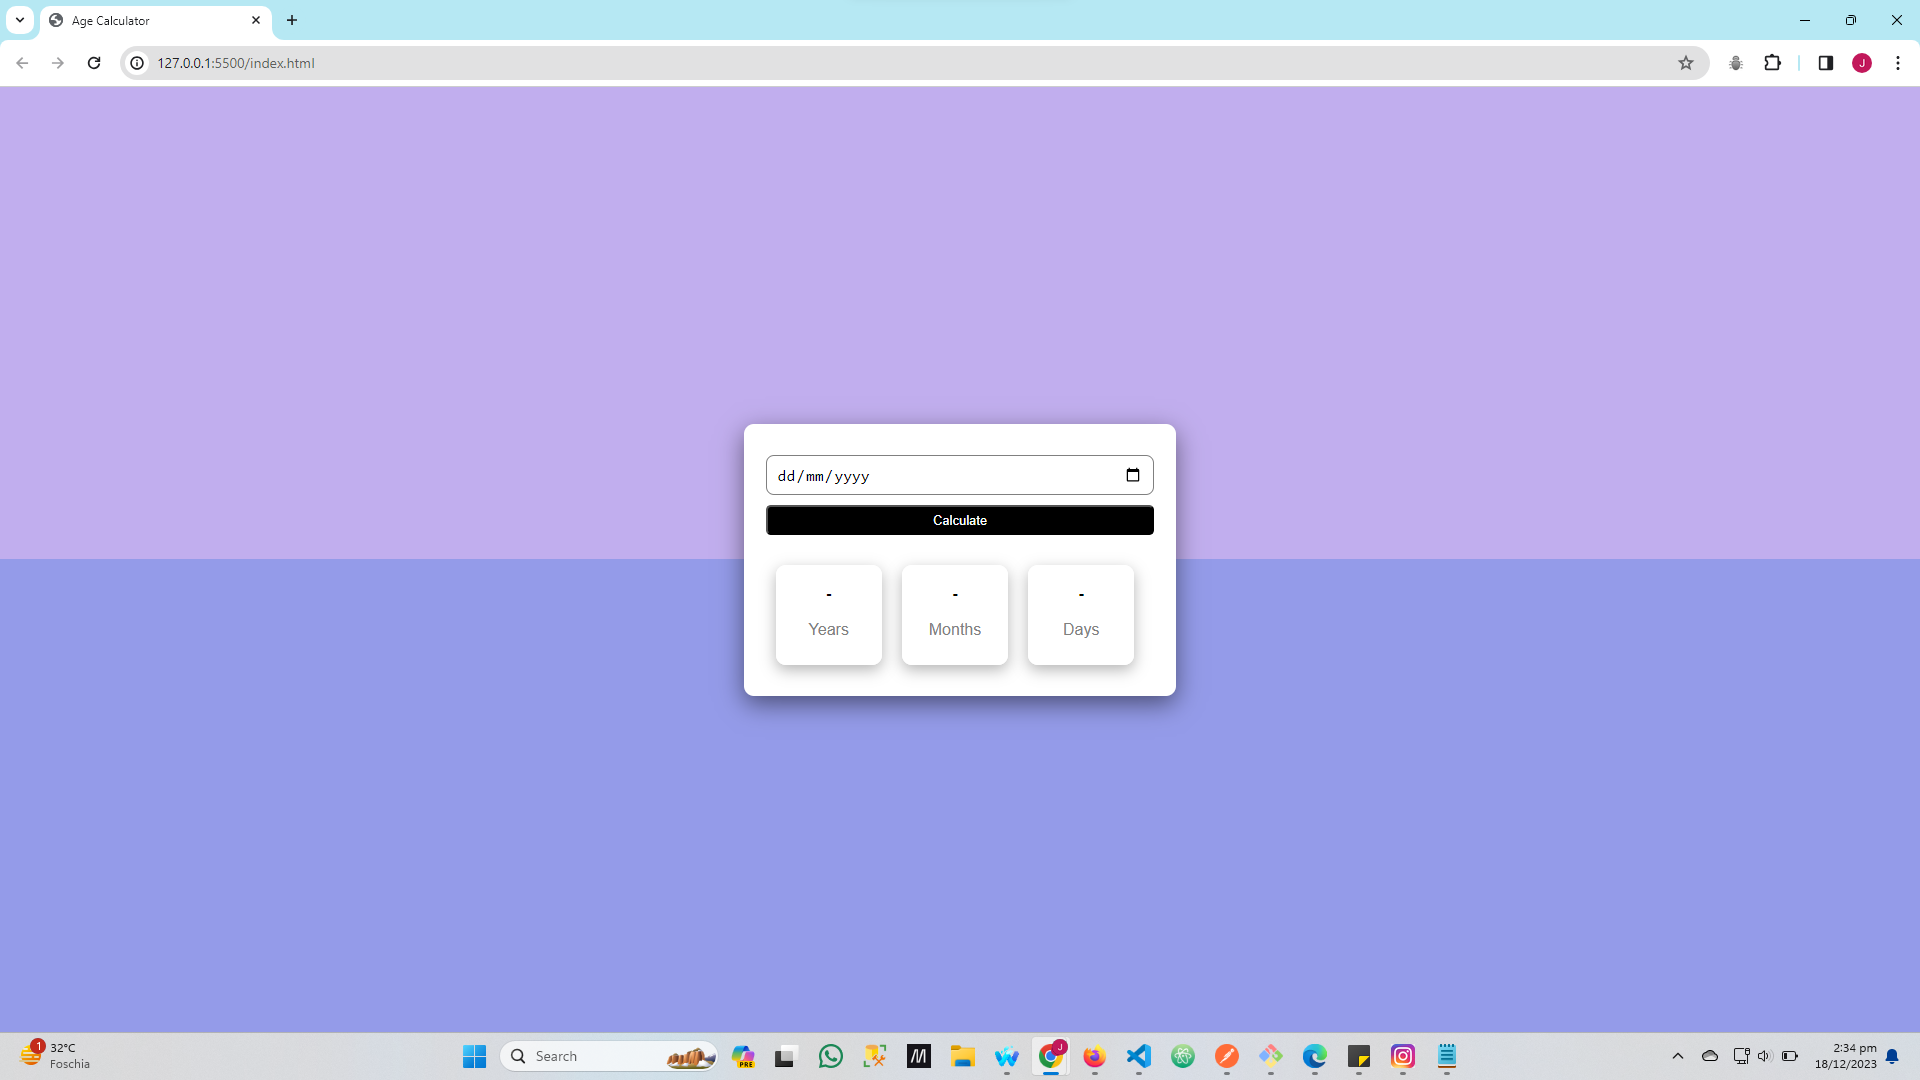
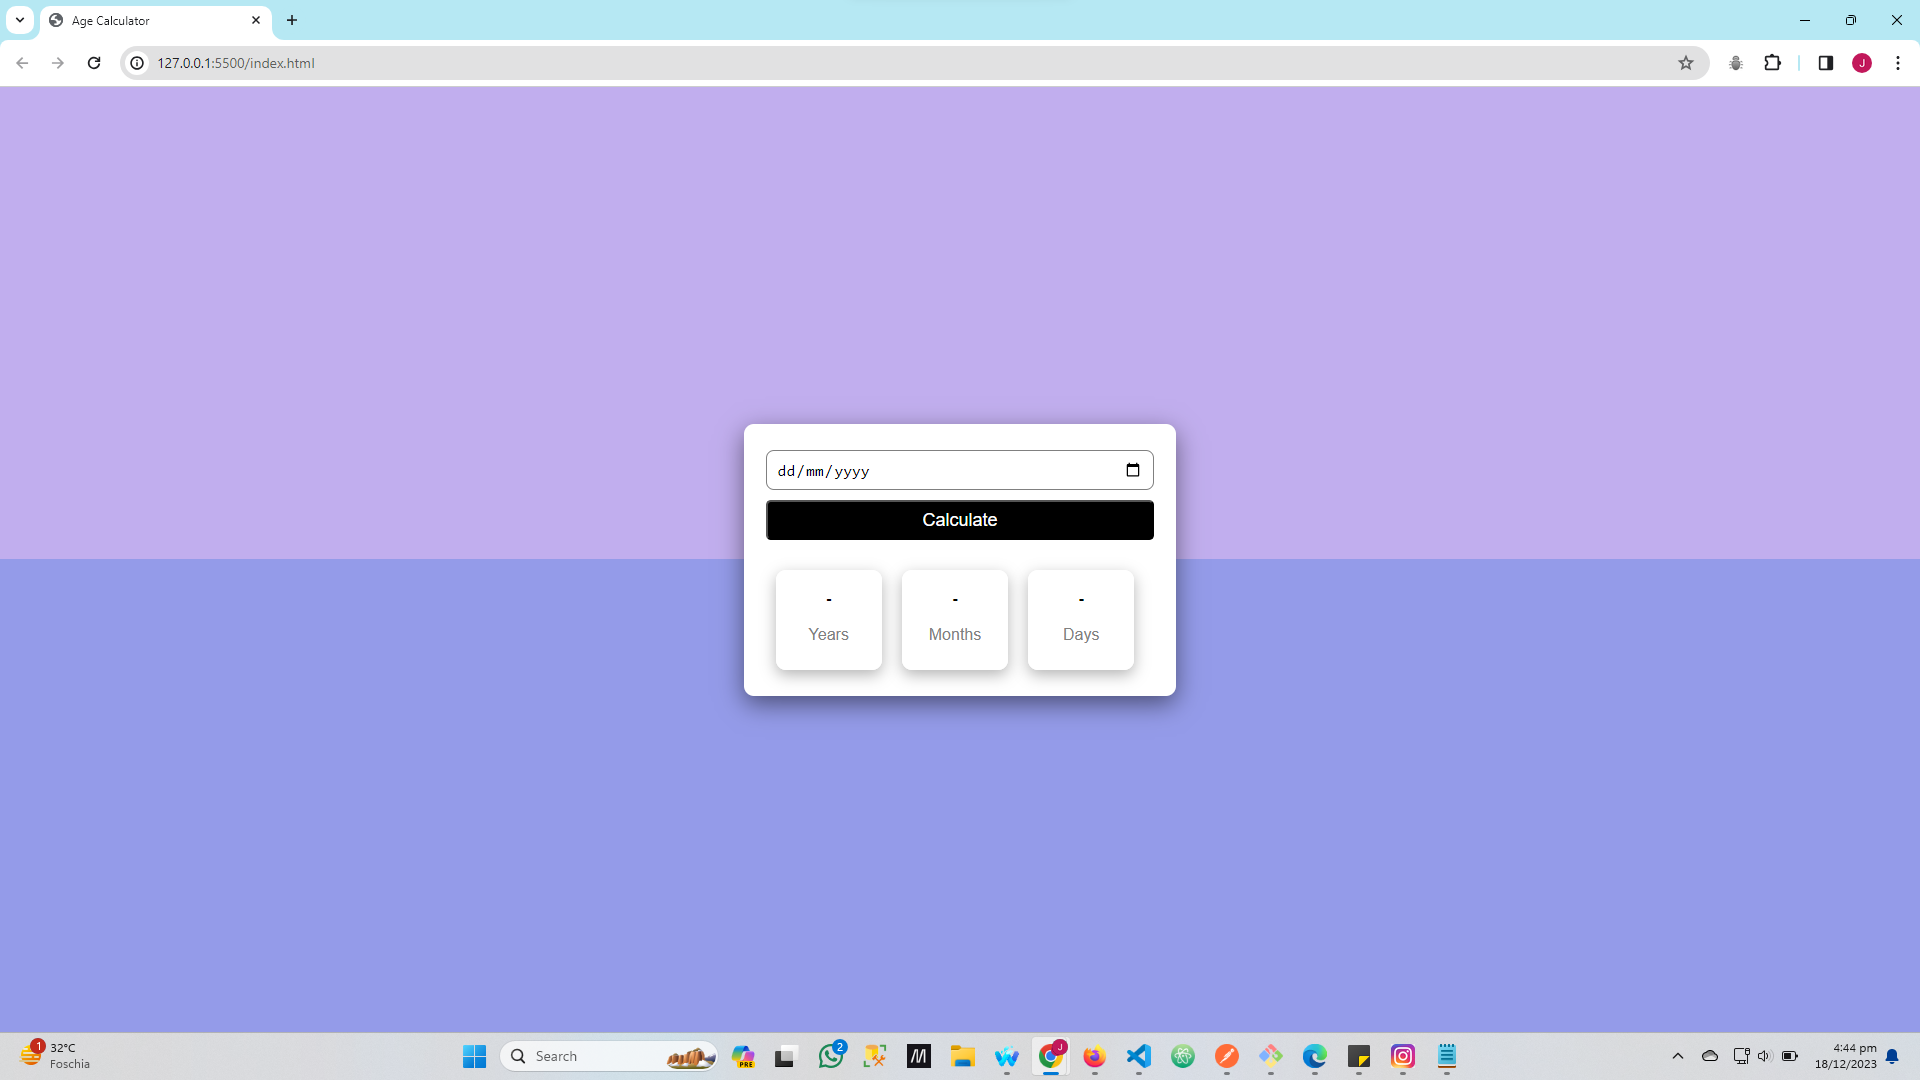
Changed button size

Changed region(s): [[0.4062, 0.4278, 0.5938, 0.5194], [0.4062, 0.5806, 0.5938, 0.6417]]

diff --git a/style.css b/style.css
@@ -45,7 +45,7 @@ input {
 }
 
 button {
-  height: 30px;
+  height: 40px;
   width: 90%;
   margin-left: 5%;
   margin-top: 10px;
@@ -53,7 +53,7 @@ button {
   color: white;
   font-size: large;
   border-radius: 5px;
-  font-size: small;
+  cursor: pointer;
 }
 
 .card-container {
